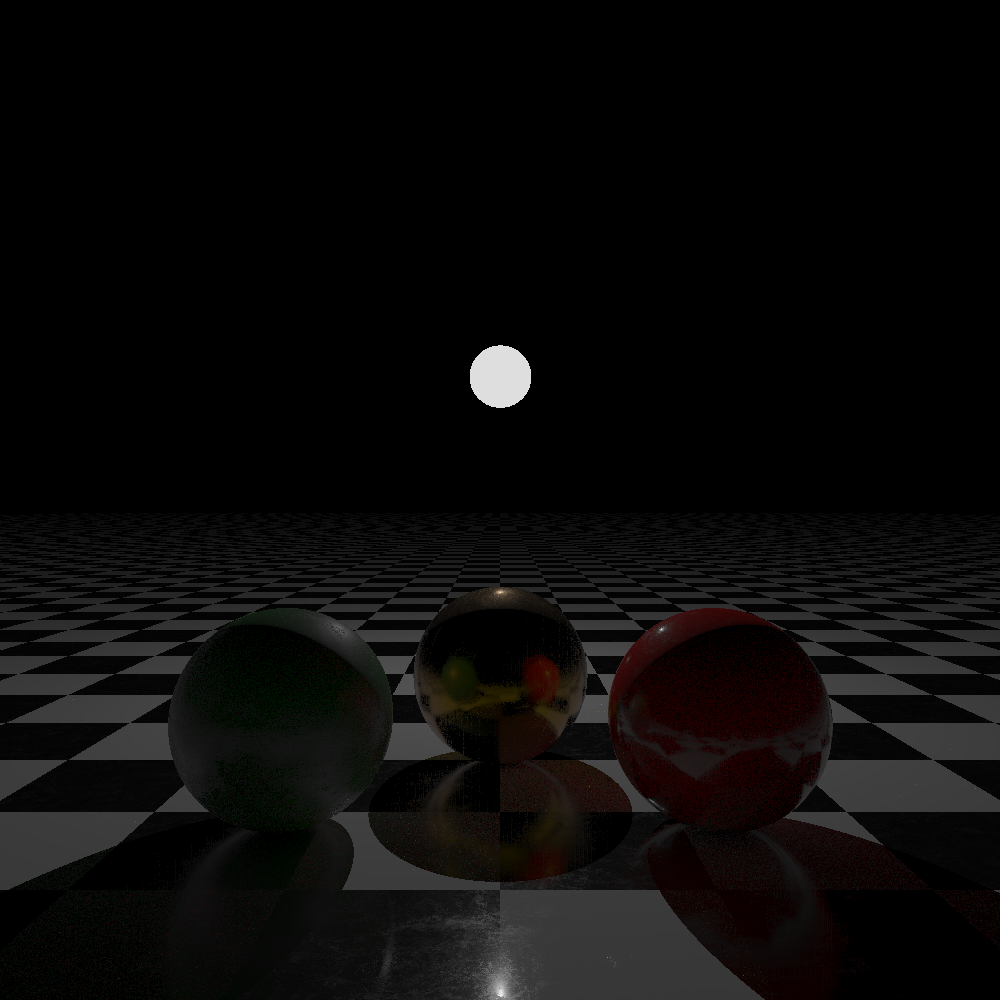
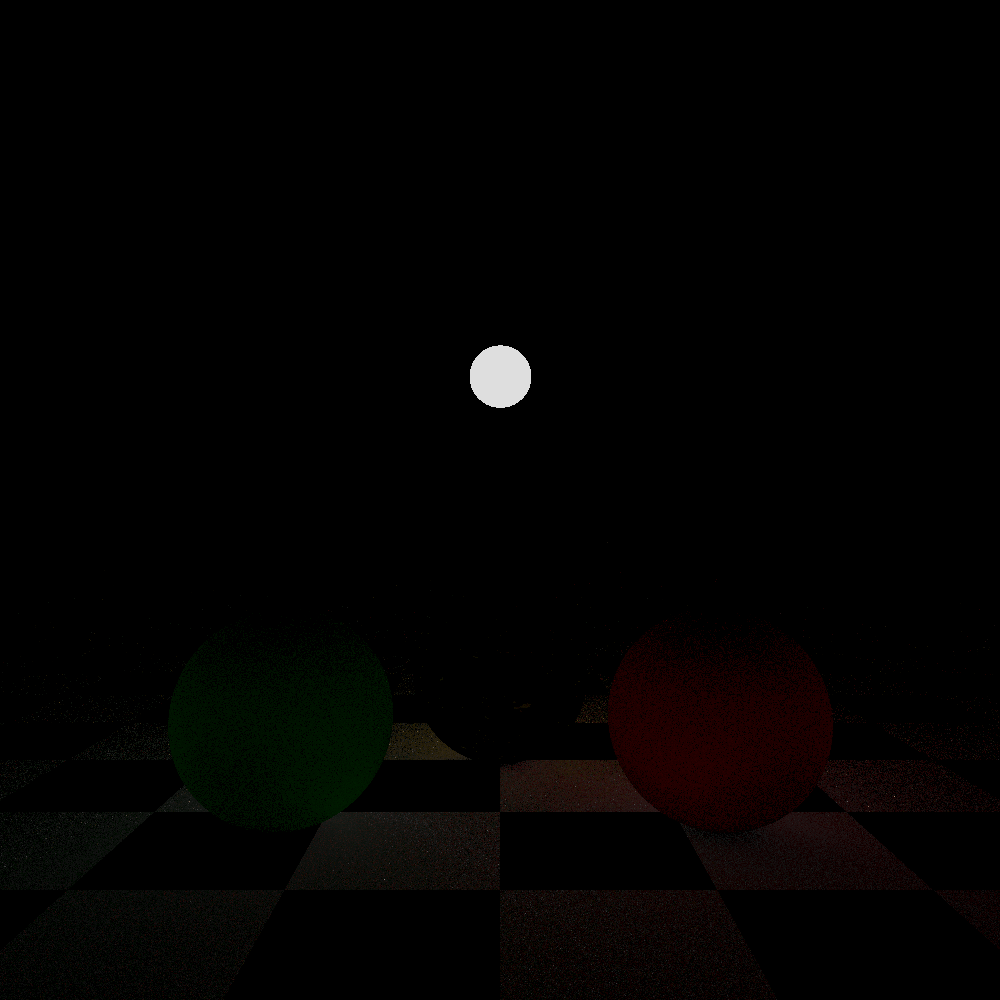
precalculating screenspace diffuse component

Changed region(s): [[0.0, 0.527, 1.0, 0.899], [0.31, 0.775, 0.775, 1.0]]

diff --git a/src/cgg/RayTracer.java b/src/cgg/RayTracer.java
@@ -18,6 +18,7 @@ import cgg.a03.Scene;
 public class RayTracer implements Sampler
 {
 	private Stage scene;
+	private Vec3[] diffuse;
 
 	// lookup
 	private final ImageTexture LUT_BRDF;
@@ -27,9 +28,46 @@ public class RayTracer implements Sampler
 	public RayTracer(Stage scene)
 	{
 		this.scene = scene;
+
+		// lookup
 		this.LUT_BRDF = new ImageTexture("./res/lut/brdf.png");
 		this.DIFFUSE_SETS = LUT.lookup().subsets_raster(Config.DIFFUSE_SAMPLES);
 		this.SPECULAR_SETS = LUT.lookup().subsets_raster(Config.SPECULAR_SAMPLES);
+
+		// diffuse precalculation
+		System.out.print("pre-processing global diffuse... ");
+		int bsize = Config.WIDTH*Config.HEIGHT;
+		diffuse = new Vec3[bsize];
+		for (int i=0;i<bsize;i++)
+		{
+			// intersection
+			Vec2 __Coord = vec2(i%Config.WIDTH,(int)i/Config.WIDTH);
+			Ray __Ray = scene.camera().generateRay(__Coord);
+			Hit __Hit = _recentIntersection(__Ray,0);
+			if (__Hit==null)
+			{
+				diffuse[i] = vec3(0);
+				continue;
+			}
+
+			// material
+			Color p_Colour = __Hit.material().getComponent(MaterialComponent.COLOUR,__Hit);
+			Color p_Material = __Hit.material().getComponent(MaterialComponent.MATERIAL,__Hit);
+			double __Metallic = p_Material.r();
+			double __Roughness = p_Material.g();
+			Vec3 __CameraDir = normalize(multiply(__Ray.direction(),-1));
+			double __Attitude = max(dot(__Hit.normal(),__CameraDir),.0);
+			Vec3 __Fresnel0 = mix(vec3(.04,.04,.04),vec3(p_Colour),__Metallic);
+			Vec3 __GIFresnel = subtract(max(vec3(1.-__Roughness),__Fresnel0),__Fresnel0);
+			__GIFresnel = multiply(__GIFresnel,pow(clamp(1.-__Attitude,.0,1.),5.));
+			__GIFresnel = add(__Fresnel0,__GIFresnel);
+			// FIXME code duplications all over the place
+
+			// diffuse colour
+			diffuse[i] = _diffuseComponent(__Coord,0,__Hit,__GIFresnel,__Metallic);
+		}
+		System.out.println("done.");
+		// TODO parallel preprocessing
 	}
 
 	public Color getColor(Vec2 coord)
@@ -46,6 +84,19 @@ public class RayTracer implements Sampler
 	private Color _processScene(Ray ray,Vec2 coord,int depth)
 	{
 		if (depth>Config.RECURSION_DEPTH) return color(0,0,0);
+		Hit __Recent = _recentIntersection(ray,depth);
+		if (__Recent==null) return Config.CLEARCOLOUR;
+		return switch (__Recent.material())
+		{
+		case PhysicalMaterial c -> _shadePhysical(__Recent,ray,coord,depth);
+		case SurfaceMaterial c -> _shadePhong(__Recent);
+		case SurfaceColour c -> _shadeLaemp(__Recent);
+		default -> Config.ERRORCOLOUR;
+		};
+	}
+
+	private Hit _recentIntersection(Ray ray,int depth)
+	{
 		Queue<HitTuple> __Hits = new LinkedList<>();
 
 		// emitter
@@ -63,15 +114,8 @@ public class RayTracer implements Sampler
 		__Hits = (recentGeometry(__Hits,__Proc)) ? __Proc : __Hits;
 
 		// switch shading
-		if (__Hits.size()==0) return Config.CLEARCOLOUR;
-		Hit __Recent = __Hits.peek().front();
-		return switch (__Recent.material())
-		{
-		case PhysicalMaterial c -> _shadePhysical(__Recent,ray,coord,depth);
-		case SurfaceMaterial c -> _shadePhong(__Recent);
-		case SurfaceColour c -> _shadeLaemp(__Recent);
-		default -> Config.ERRORCOLOUR;
-		};
+		if (__Hits.size()==0) return null;
+		return __Hits.peek().front();
 	}
 
 	private Color _shade(Hit hit)
@@ -84,6 +128,9 @@ public class RayTracer implements Sampler
 
 	private Color _shadePhysical(Hit hit,Ray ray,Vec2 coord,int depth)
 	{
+		// §§test output
+		if (depth==0) return color(diffuse[(int)coord.y()*Config.WIDTH+(int)coord.x()]);
+
 		// extract colour information
 		// colour preferredly to be a constant because the loader does not translate into sRGB colourspace
 		// FIXME or else albedo textures are utterly useless
@@ -153,6 +200,11 @@ public class RayTracer implements Sampler
 		Color __LUT = LUT_BRDF.getColor(vec2(__Attitude,__Roughness));
 
 		// global diffuse component
+		Vec3 __DGI = (depth==0)
+				? diffuse[(int)coord.y()*Config.WIDTH+(int)coord.x()]
+				: _diffuseComponent(coord,depth,hit,__GIFresnel,__Metallic);
+		//Vec3 __DGI = _diffuseComponent(coord,depth,hit,__GIFresnel,__Metallic);
+		/*
 		Vec3 __DGI = vec3(0,0,0);
 		for (Vec2 __Hammersley : LUT.map_subset(DIFFUSE_SETS,coord,Config.DIFFUSE_SAMPLES))
 		{
@@ -162,7 +214,8 @@ public class RayTracer implements Sampler
 			double v = sqrt(1-pow(__Hammersley.y(),2.));
 			Vec3 __DiffDirection = vec3(v*cos(u),__Hammersley.y(),v*sin(u));
 			*/
-			Vec3 __DiffSample = normalize(randomDirection()/*__DiffDirection*/);
+		//Vec3 __DiffSample = normalize(randomDirection()/*__DiffDirection*/);
+			/*
 			__DiffSample = normalize(add(hit.normal(),__DiffSample));
 
 			// trace sample
@@ -172,6 +225,7 @@ public class RayTracer implements Sampler
 		__DGI = multiply(divide(__DGI,Config.DIFFUSE_SAMPLES),vec3(p_Colour));
 		__DGI = multiply(__DGI,subtract(vec3(1),__GIFresnel));
 		__DGI = multiply(__DGI,subtract(vec3(1),__Metallic));
+		*/
 
 		// specular component
 		// sampling from the environment
@@ -218,6 +272,32 @@ public class RayTracer implements Sampler
 		__GI = multiply(add(__GI,__DGI),__Cavity);
 		out = mix(out,color(__GI),.5);
 
+		return out;
+	}
+
+	private Vec3 _diffuseComponent(Vec2 coord,int depth,Hit hit,Vec3 fresnel,double metallic)
+	{
+		Color p_Colour = hit.material().getComponent(MaterialComponent.COLOUR,hit);
+		Vec3 out = vec3(0,0,0);
+		for (Vec2 __Hammersley : LUT.map_subset(DIFFUSE_SETS,coord,Config.DIFFUSE_SAMPLES))
+		{
+			// hämis hämis hämisphere!
+			/*
+			double u = 2*PI*__Hammersley.x();
+			double v = sqrt(1-pow(__Hammersley.y(),2.));
+			Vec3 __DiffDirection = vec3(v*cos(u),__Hammersley.y(),v*sin(u));
+			Vec3 __DiffSample = normalize(__DiffDirection);
+			*/
+			Vec3 __DiffSample = normalize(randomDirection());
+			__DiffSample = normalize(add(hit.normal(),__DiffSample));
+
+			// trace sample
+			Ray __DIR = new Ray(hit.position(),__DiffSample);
+			out = add(out,vec3(_processScene(__DIR,coord,depth+1)));
+		}
+		out = multiply(divide(out,Config.DIFFUSE_SAMPLES),vec3(p_Colour));
+		out = multiply(out,subtract(vec3(1),fresnel));
+		out = multiply(out,subtract(vec3(1),metallic));
 		return out;
 	}
 
